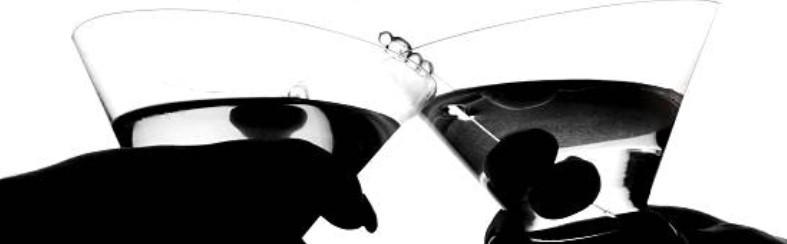
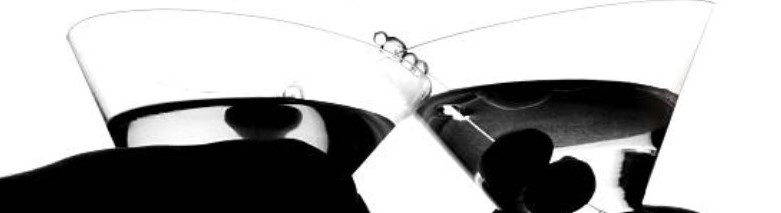
image adjusted and some readme info added

diff --git a/README.md b/README.md
@@ -1,3 +1,48 @@
 # project2-GD
 
 https://docs.google.com/document/d/1LWfMg9crtuPWdkFwY8B03fyBcv_yXzTvKVOBFygvmkM/edit
+
+Title:
+Tipsy
+
+Description:
+Tipsy is an easy to use website to search reviews on local bars in Adelaide. The reviews will include a rating out of 5, a comment and either an uploaded image or default image. The review/post is able to be commented on by other users. However, to view the site you will be prompted whether you are over the age of 18 and you will need to login to view the review dashboard which displays the bar reviews and ratings.
+
+User Story:
+As a young adult, I want an application that allows me to view local bar’s reviews and images, through an easy to use and responsive site.
+
+Acceptance Criteria:
+
+When I open the Tipsy website and I am asked my date of birth
+When My date of birth either will allow me to log in/sign up or restrict access to the website.
+When after answering my date of birth I can log in or sing up
+When I can create a new account to start creating my bar post.
+When I can log in into my account.
+When after log into my account I can start creating post to different bars.
+When I can create comments to a other posts.
+When I can add a picture to my post.
+When I can sort the bars by name or rating (ASC/DES)
+When I can upload a picture to my profile.
+
+
+
+
+
+
+
+Rough breakdown of Task:
+By Thursday:
+HTML-Liliana- 3rd page, Fatin- 2nd page, Rickelle- 1st page: 3 different pages- login/sign-up (username, password), home page (18+ pop- up), dashboard (list of bar names/ input section) try out different layouts with handlebar
+Models- Lara.
+Unallocated:
+json files- with seeding
+Routes-
+Presentation slides-
+
+Requirements:
+Default
+
+New library/technology/package:
+
+Repo Link:
+https://github.com/lilianaba/project2-GD
